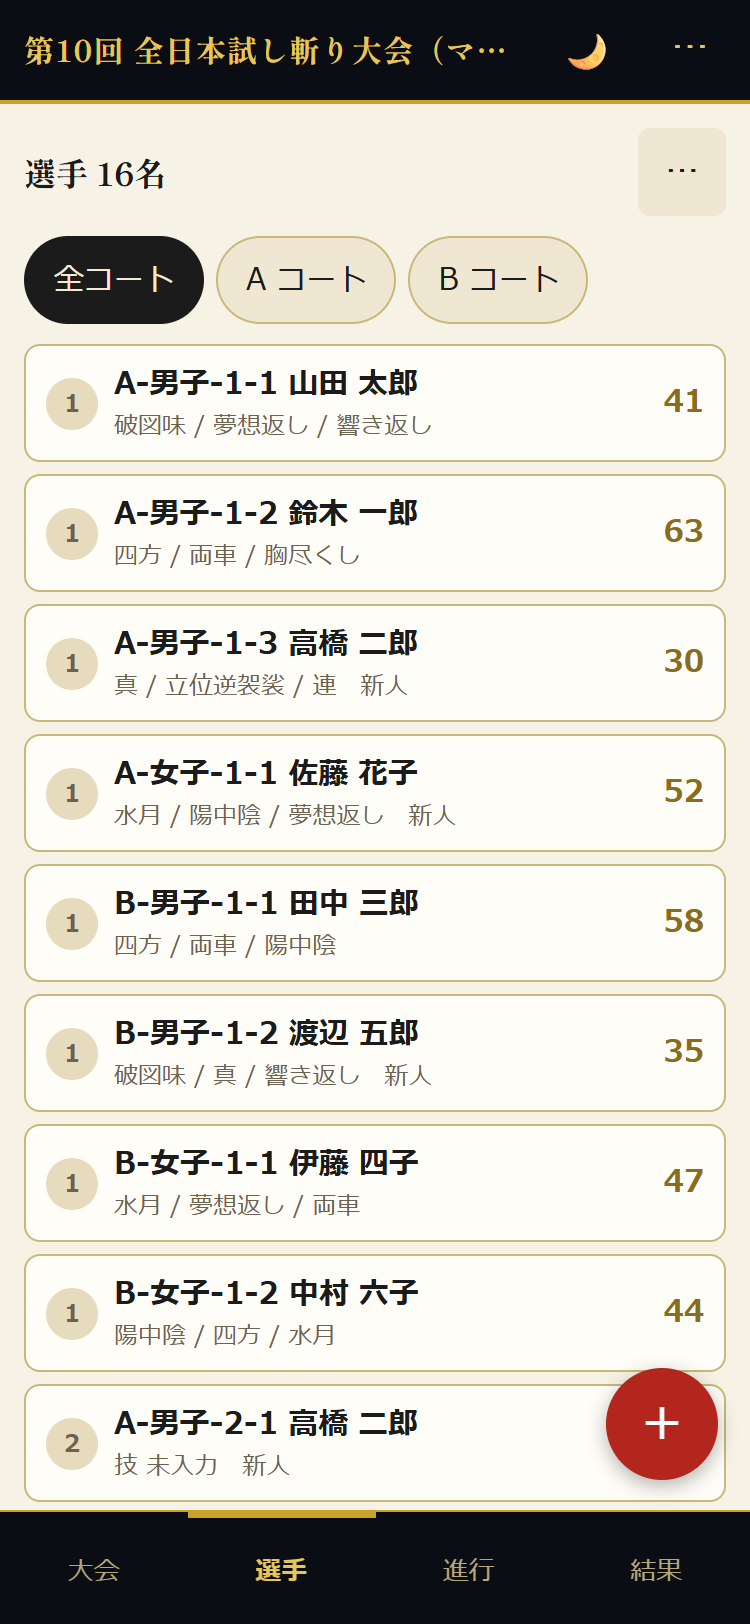
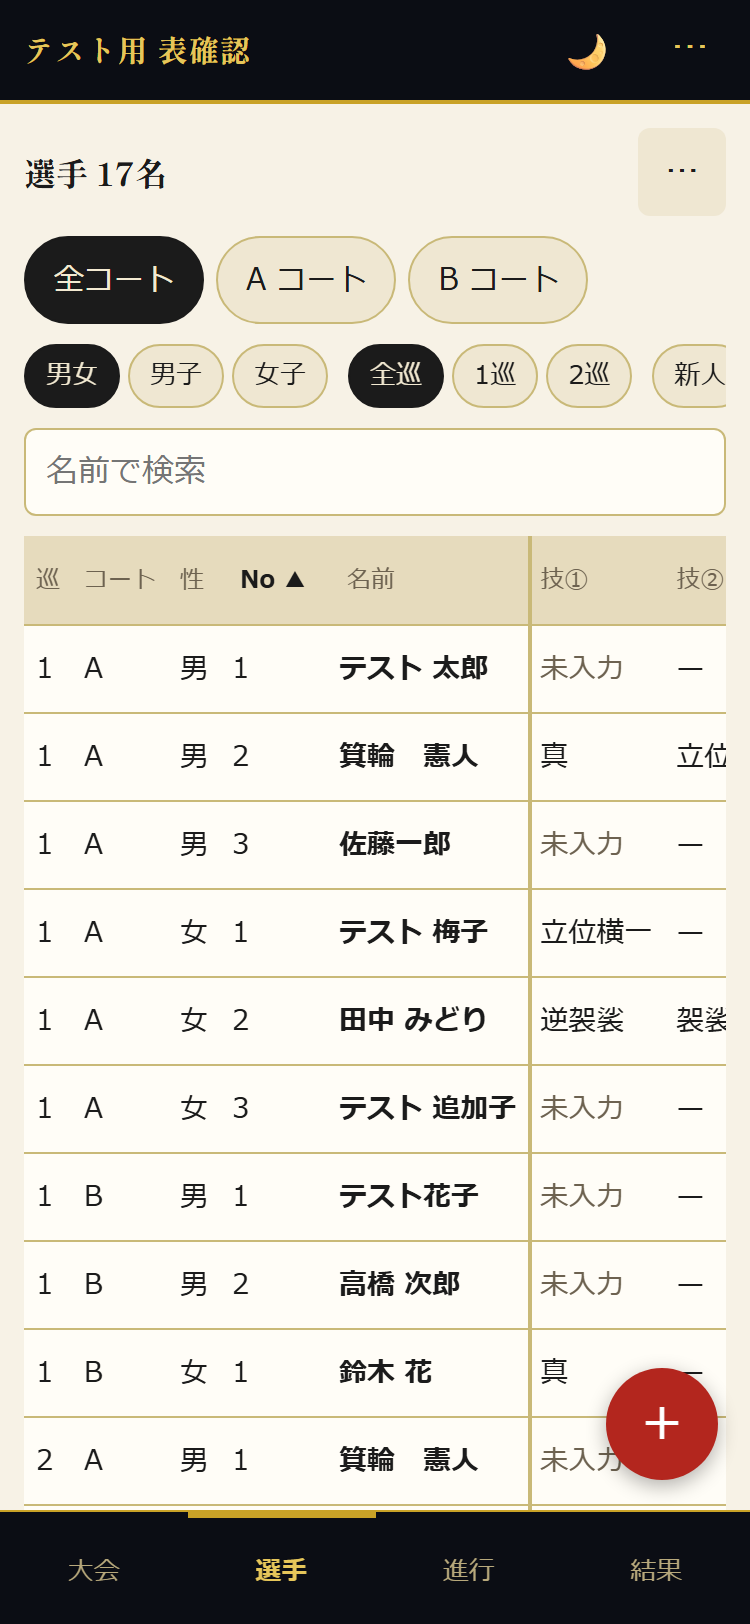
docs: マニュアルの選手タブを表形式に合わせ、絞り込み・並べ替えの説明を足す

diff --git a/help.html b/help.html
@@ -160,8 +160,8 @@
     <p>タブで <span class="ui">選手</span> を選びます。登録のしかたは3通りあります。</p>
 
     <figure class="shot-mobile">
-      <img src="help/img/admin_players.png" loading="lazy" alt="選手タブ。コートの絞り込みチップ、選手のカード、右下の赤い「＋」ボタン。">
-      <figcaption>選手タブ。左の丸い数字は巡目です。名前の下に技が並び、右が得点です。右下の赤い <span class="ui">＋</span> が1人ずつの追加、右上の <span class="ui">⋯</span> がまとめての登録です。</figcaption>
+      <img src="help/img/admin_players.png" loading="lazy" alt="選手タブ。絞り込みのチップと検索欄、選手の表、右下の赤い「＋」ボタン。">
+      <figcaption>選手タブ。1人1行の表で、左から巡目・コート・性別・番号・名前・技①②③・新人・得点です。表は横にスクロールでき、名前の列は左に残ります。右下の赤い <span class="ui">＋</span> が1人ずつの追加、右上の <span class="ui">⋯</span> がまとめての登録です。</figcaption>
     </figure>
 
     <h3>（a）1人ずつ登録する</h3>
@@ -235,6 +235,12 @@
       <img src="help/img/admin_tech_sheet.png" loading="lazy" alt="技を選ぶシート。上に絞り込みの入力欄、見出し行、技名と各太刀の配点の一覧。">
       <figcaption>技を選ぶシート。見出しは <span class="ui">1つ目の技を選ぶ</span> のように、どの枠を選んでいるかを示します。</figcaption>
     </figure>
+
+    <h3>選手を探す（絞り込み・並べ替え）</h3>
+    <p>表の上のチップで絞り込めます。<span class="ui">全コート</span> / <span class="ui">A コート</span>、<span class="ui">男女</span> / <span class="ui">男子</span> / <span class="ui">女子</span>、<span class="ui">全巡</span> / <span class="ui">1巡</span> / <span class="ui">2巡</span> は1つを選びます。<span class="ui">新人</span> と <span class="ui">技未入力</span> は押すたびに入・切が切り替わります。条件は重ねられます（例: <span class="ui">A コート</span> と <span class="ui">技未入力</span> で、Aコートで技がまだ入っていない人だけ）。</p>
+    <p>検索欄に名前の一部を入れると、その文字を含む人だけになります。姓と名の間の空白は無視します。</p>
+    <p>表の見出し <span class="ui">No</span> / <span class="ui">名前</span> / <span class="ui">得点</span> を押すと並べ替えられます。もう一度押すと逆順です（▲ が昇順、▼ が降順）。<span class="ui">1巡</span> に絞って <span class="ui">得点</span> を降順にすると一巡目の順位、<span class="ui">全巡</span> のまま降順にすると巡目をまたいだ順位になります。</p>
+    <div class="note">絞り込みと並べ替えは、選手を追加・編集しても保たれます。別の大会を開くか、ページを読み直すと元（全コート・男女・全巡・No 昇順）に戻ります。</div>
 
     <h3>選手を直す・消す</h3>
     <p>選手タブの行をタップすると <span class="ui">選手を編集</span> のシートが開きます。名前・コート・性別・新人・技を直して <span class="ui">保存</span> を押します。</p>
